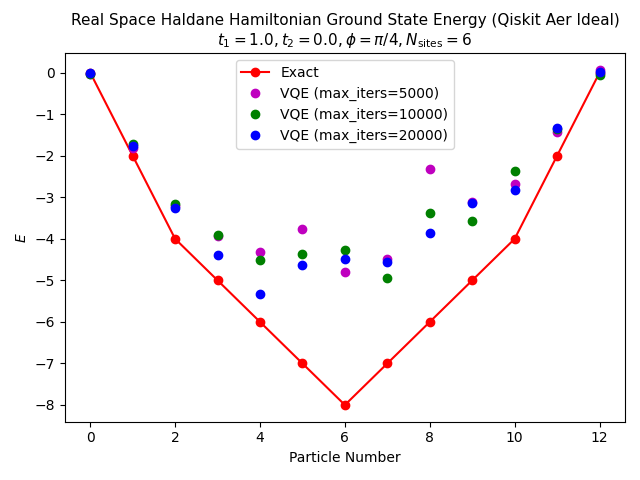
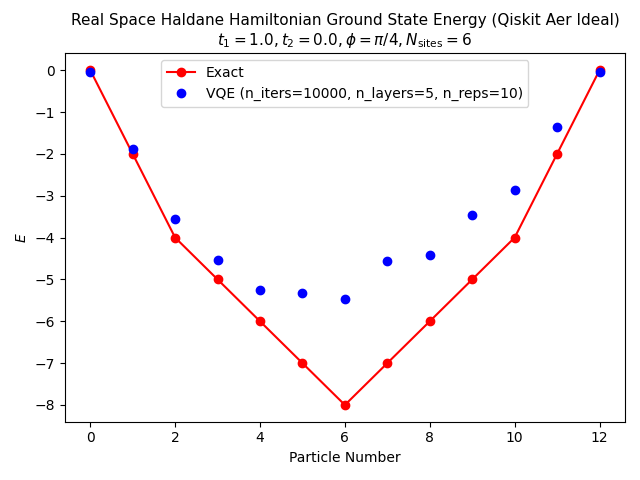
Updated VQE for 6 sites

diff --git a/scripts/haldane-model/real_space_simulated_ideal_EP.py b/scripts/haldane-model/real_space_simulated_ideal_EP.py
@@ -6,11 +6,11 @@ import json
 from qiskit_nature.second_q.mappers import JordanWignerMapper
 from joblib import Parallel, delayed
 
-n_sites = 4
-t1, t2, phi = 1.0, 0.0, np.pi/4
+n_sites = 6
+t1, t2, phi = 1.0, 0.05, np.pi/4
 spin = 2
 mapper = JordanWignerMapper()
-n_iters, n_layers, n_reps = 5000, 5, 20
+n_iters, n_layers, n_reps = 10000, 5, 10
 
 jobs = []
 for n_occ in range(spin * n_sites + 1):
